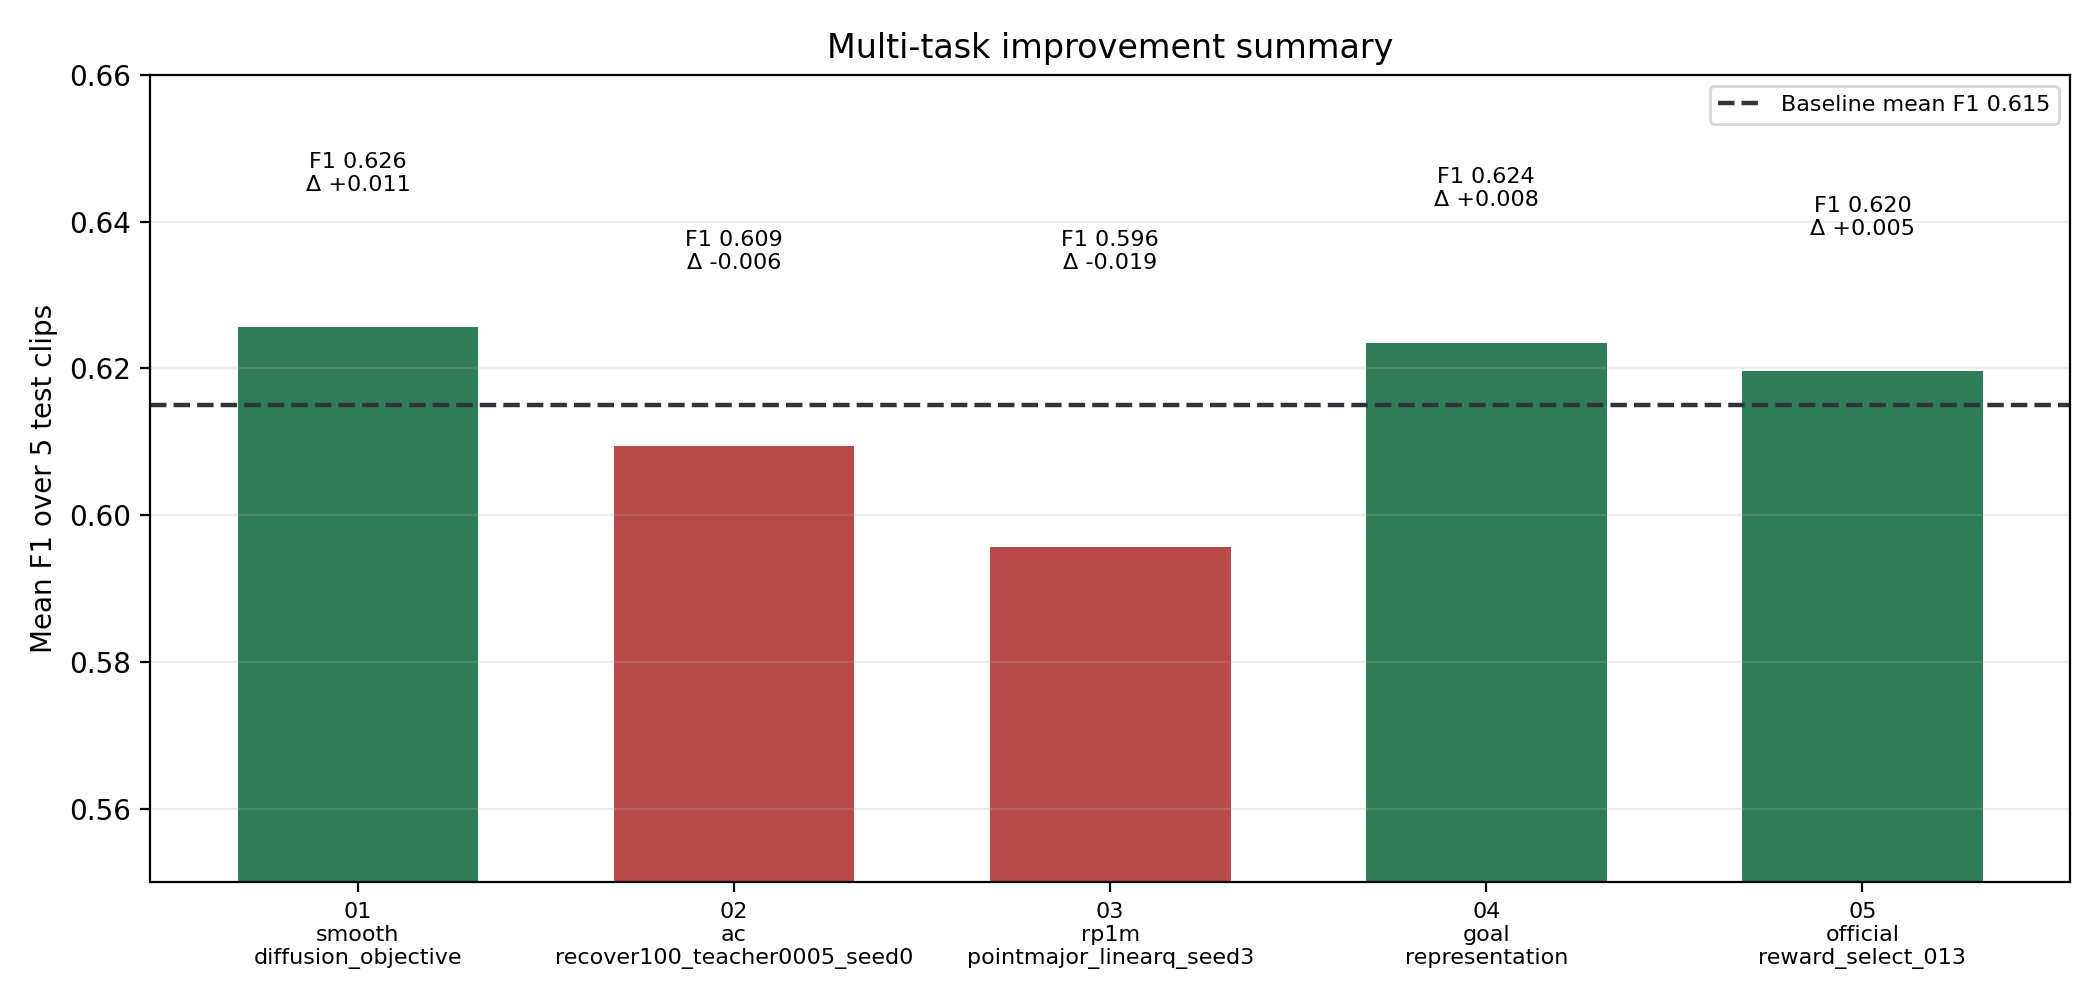
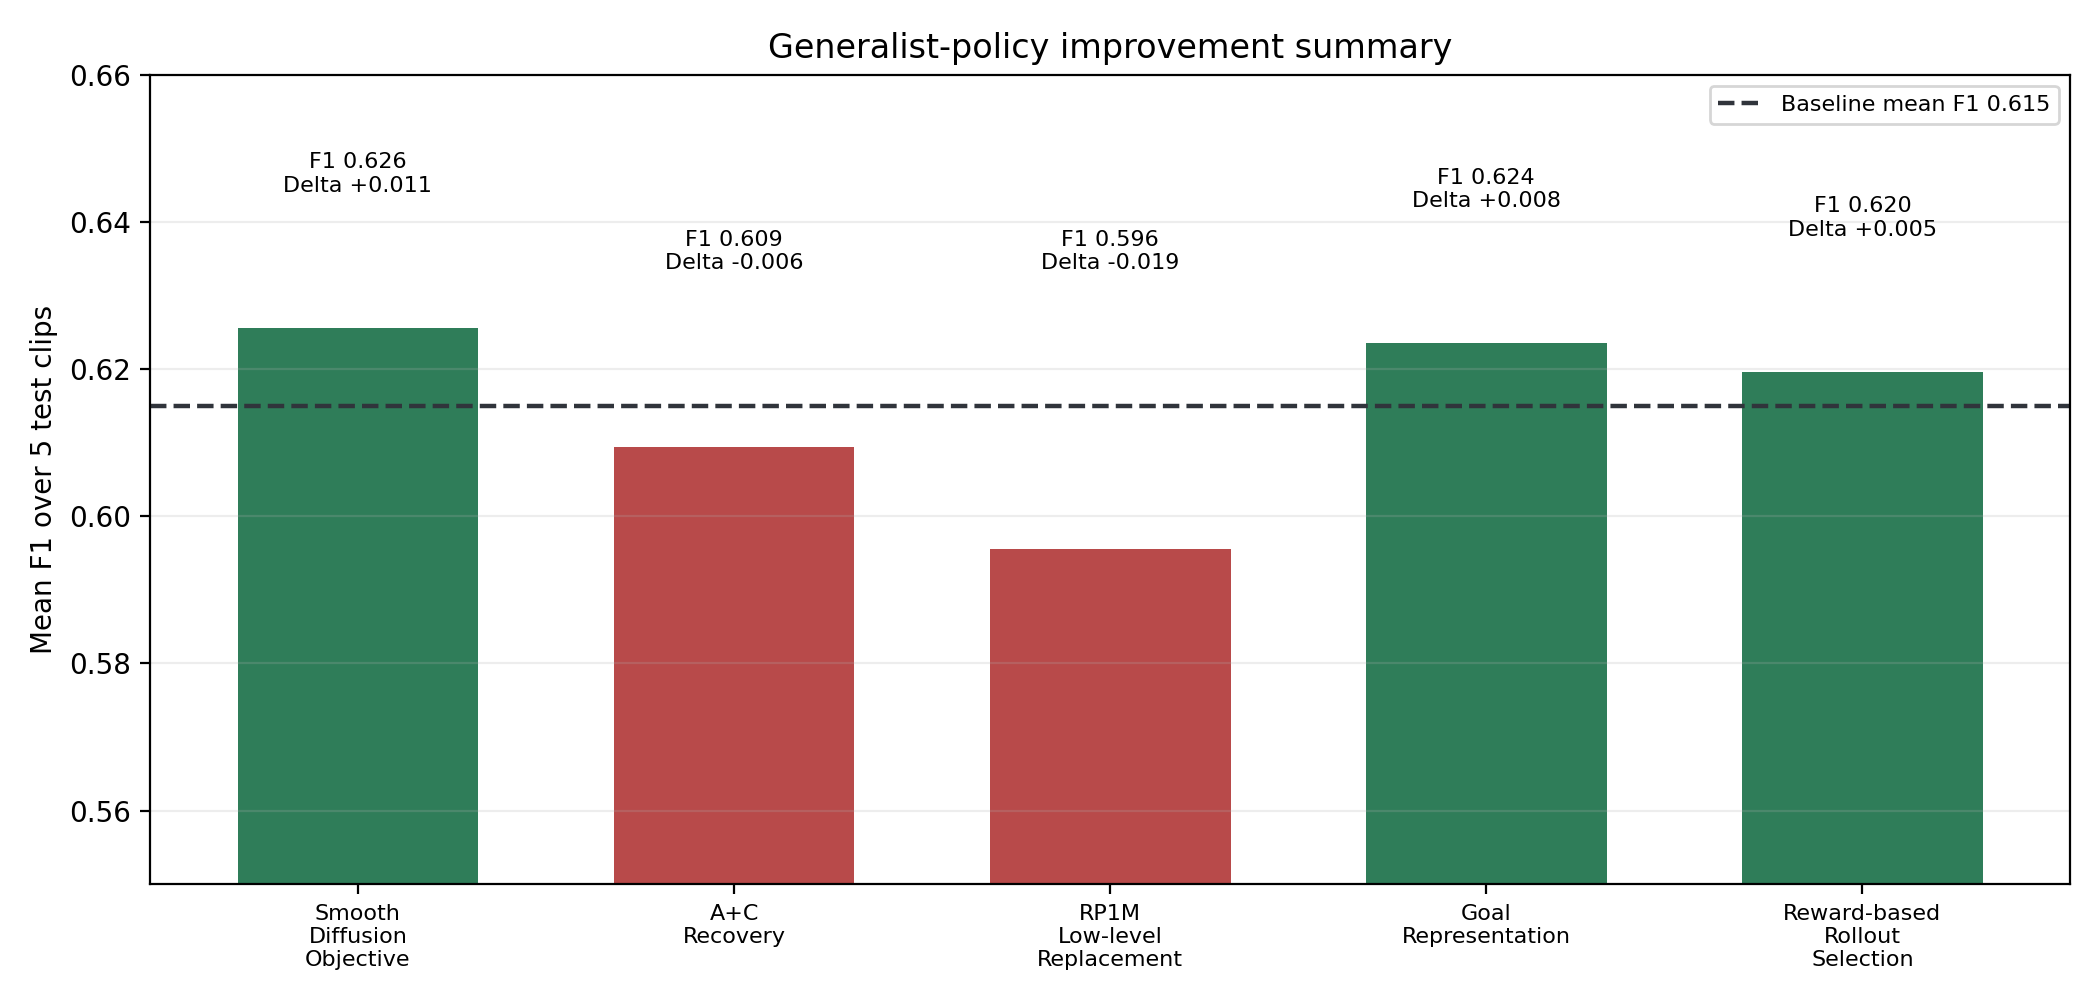
出版海报

diff --git a/improvement/multi_task/summary.md b/improvement/multi_task/summary.md
@@ -1,6 +1,6 @@
 # Multi-task Improvement Summary
 
-All multi-task methods are evaluated on the same five unseen/test clips:
+All generalist-policy methods are evaluated on the same five unseen/test clips:
 
 ```text
 Alone_1
@@ -14,34 +14,34 @@ The baseline generalist mean F1 on these clips is `0.615026`.
 
 ## Compared Methods
 
-### `01_smooth_diffusion_objective`
+### Smooth Diffusion Objective
 
 Fine-tunes the low-level diffusion policy with denoised action derivative matching.
 
 - mean F1: `0.625574`
 - delta F1: `[phone redacted]`
 
-This is the strongest average improvement among the currently collected multi-task methods.
+This is the strongest average improvement among the collected generalist-policy methods.
 
-### `02_ac_recover100_teacher0005_seed0`
+### A+C Recovery
 
-Uses an A+C two-stage recovery method with teacher regularization.
+Uses a two-stage recovery method with teacher regularization.
 
 - mean F1: `0.609421`
 - delta F1: `-0.005605`
 
 This method is not a stable improvement on the selected five-clip benchmark.
 
-### `03_rp1m_pointmajor_linearq_seed3`
+### RP1M Low-level Replacement
 
-Replaces the official low-level checkpoint with an RP1M-derived low-level model.
+Replaces the official low-level checkpoint with an RP1M-derived low-level policy.
 
 - mean F1: `0.595610`
 - delta F1: `-0.019416`
 
 This method improves only `Hope_1` and degrades the other four clips.
 
-### `04_goal_representation`
+### Goal Representation
 
 Fine-tunes the low-level diffusion policy with an expanded goal side-channel representation.
 
@@ -50,9 +50,9 @@ Fine-tunes the low-level diffusion policy with an expanded goal side-channel rep
 
 This is the second strongest average improvement and is especially helpful on `EyesClosed_1`.
 
-### `05_official_reward_select_013`
+### Reward-based Rollout Selection
 
-Keeps the original PianoMime checkpoints but evaluates multiple low-level seeds and selects the best rollout by reward.
+Keeps the original PianoMime checkpoints but samples multiple rollouts and selects the best one by reward.
 
 - mean F1: `0.619582`
 - delta F1: `[phone redacted]`
@@ -61,4 +61,4 @@ This method gives a modest positive test-time improvement, but still degrades `S
 
 ## Conclusion
 
-`01_smooth_diffusion_objective` is the best current multi-task improvement by average F1. `04_goal_representation` is also positive and close behind. The remaining methods are useful comparison points but are not stronger than these two on the selected five clips.
+Smooth Diffusion Objective is the best current generalist-policy improvement by average F1. Goal Representation is also positive and close behind. A+C Recovery, RP1M Low-level Replacement, and Reward-based Rollout Selection are useful comparison points but are not stronger than these two on the selected five clips.

diff --git a/improvement/multi_task/02_ac_recover100_teacher0005_seed0/README.md b/improvement/multi_task/02_ac_recover100_teacher0005_seed0/README.md
@@ -1,4 +1,4 @@
-# 02 ac_recover100_teacher0005_seed0
+# A+C Recovery
 
 ## What changed
 

diff --git a/improvement/multi_task/03_rp1m_pointmajor_linearq_seed3/README.md b/improvement/multi_task/03_rp1m_pointmajor_linearq_seed3/README.md
@@ -1,4 +1,4 @@
-# 03 rp1m_pointmajor_linearq_seed3
+# RP1M Low-level Replacement
 
 ## What changed
 

diff --git a/improvement/multi_task/05_official_reward_select_013/README.md b/improvement/multi_task/05_official_reward_select_013/README.md
@@ -1,4 +1,4 @@
-# 05 official_reward_select_013
+# Reward-based Rollout Selection
 
 ## What changed
 